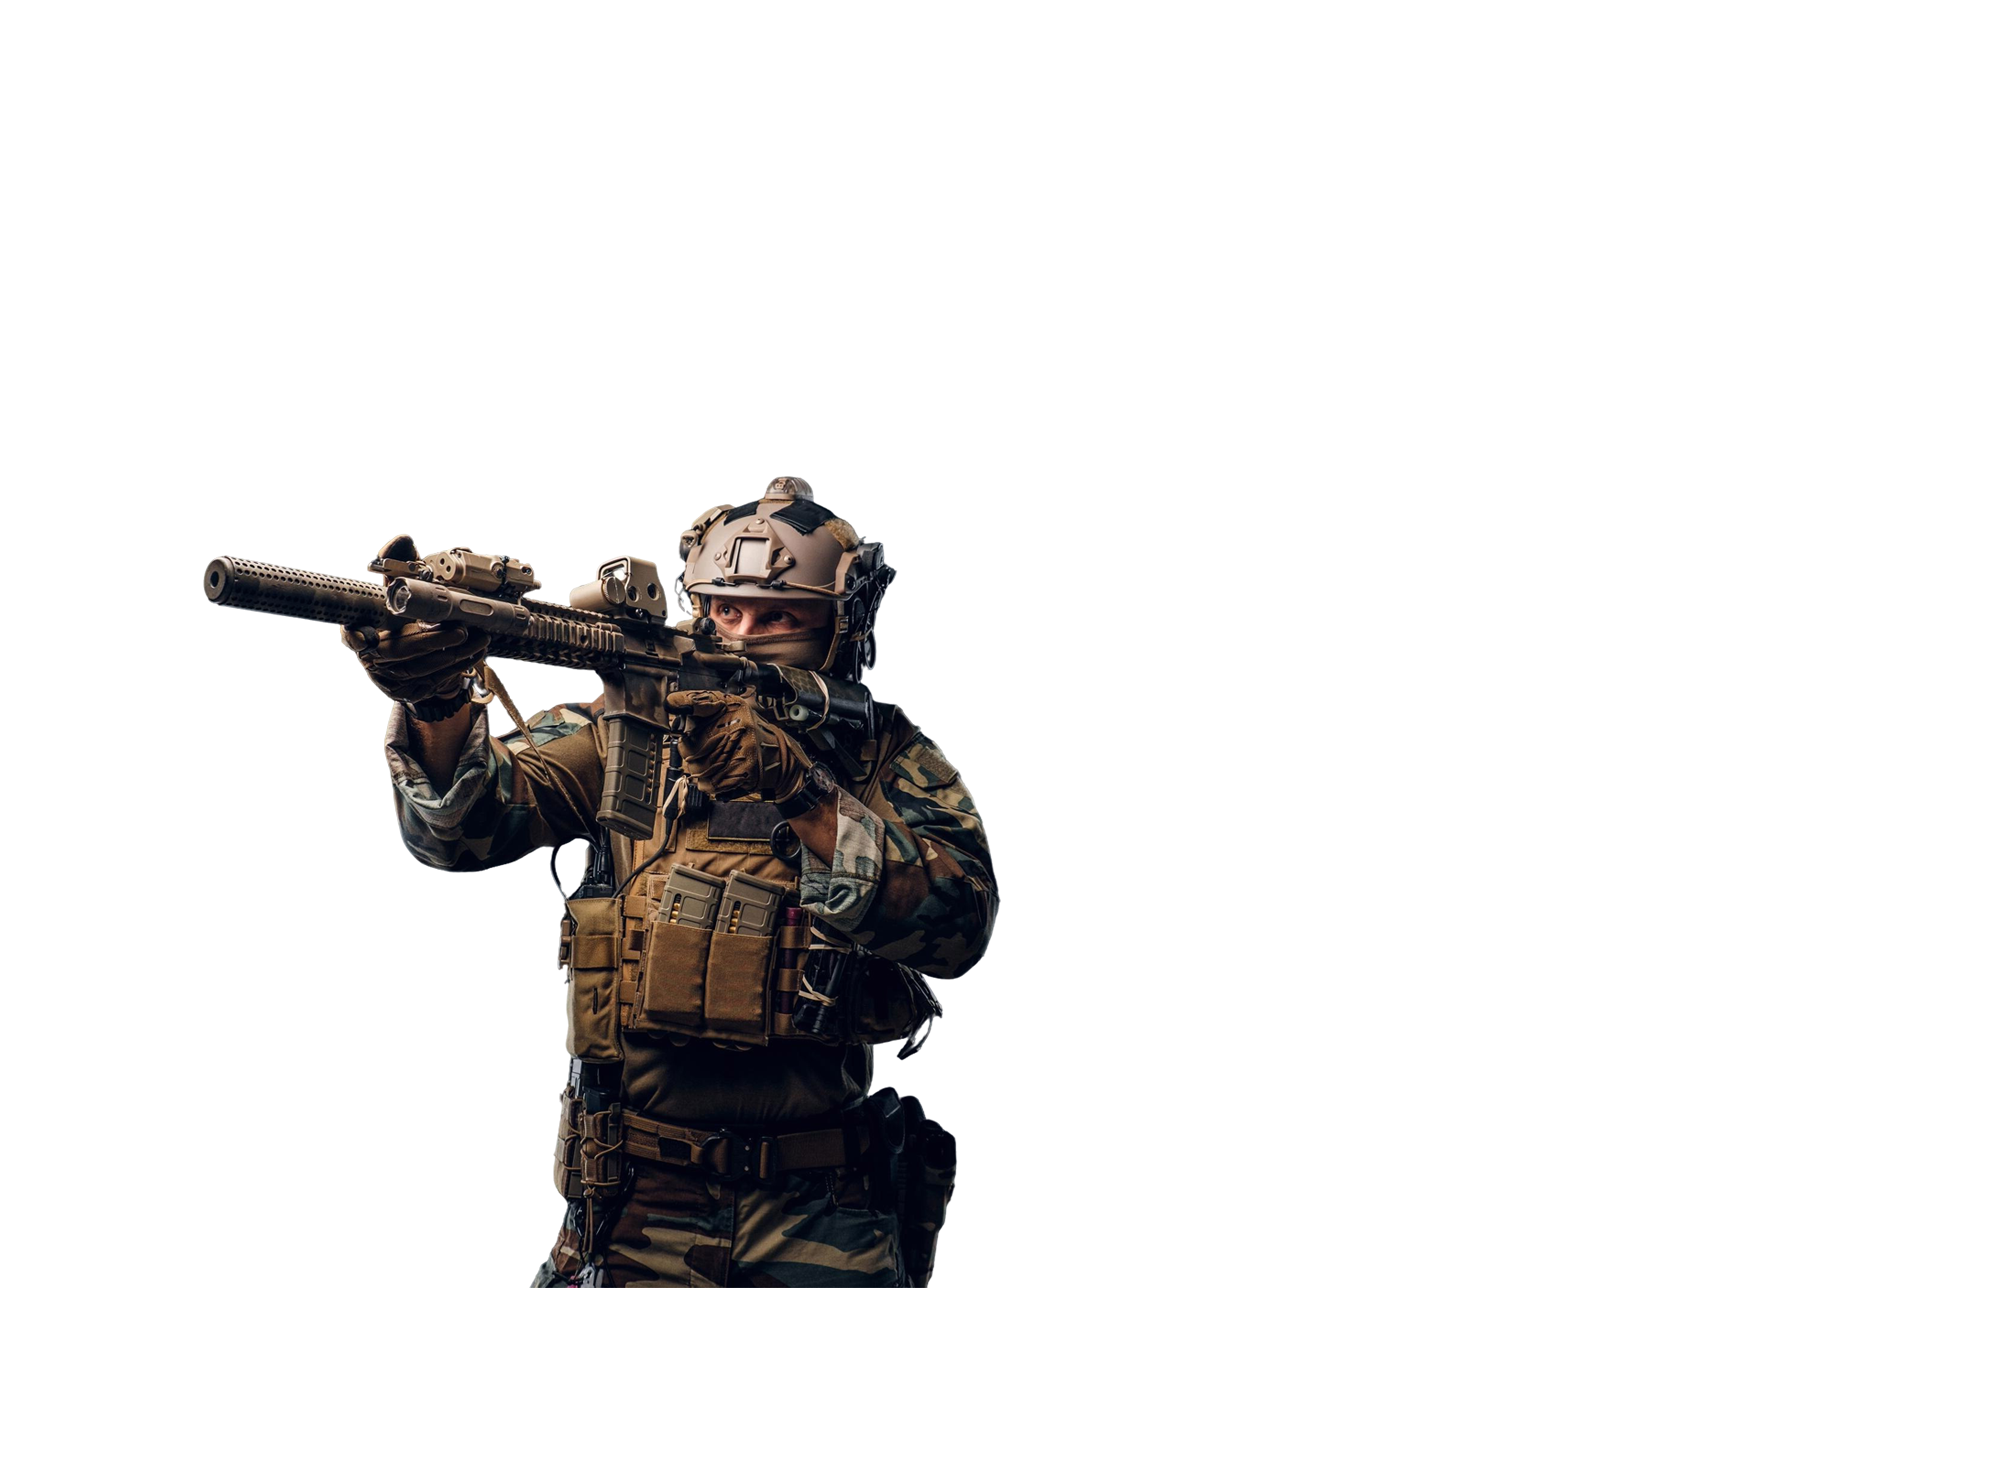
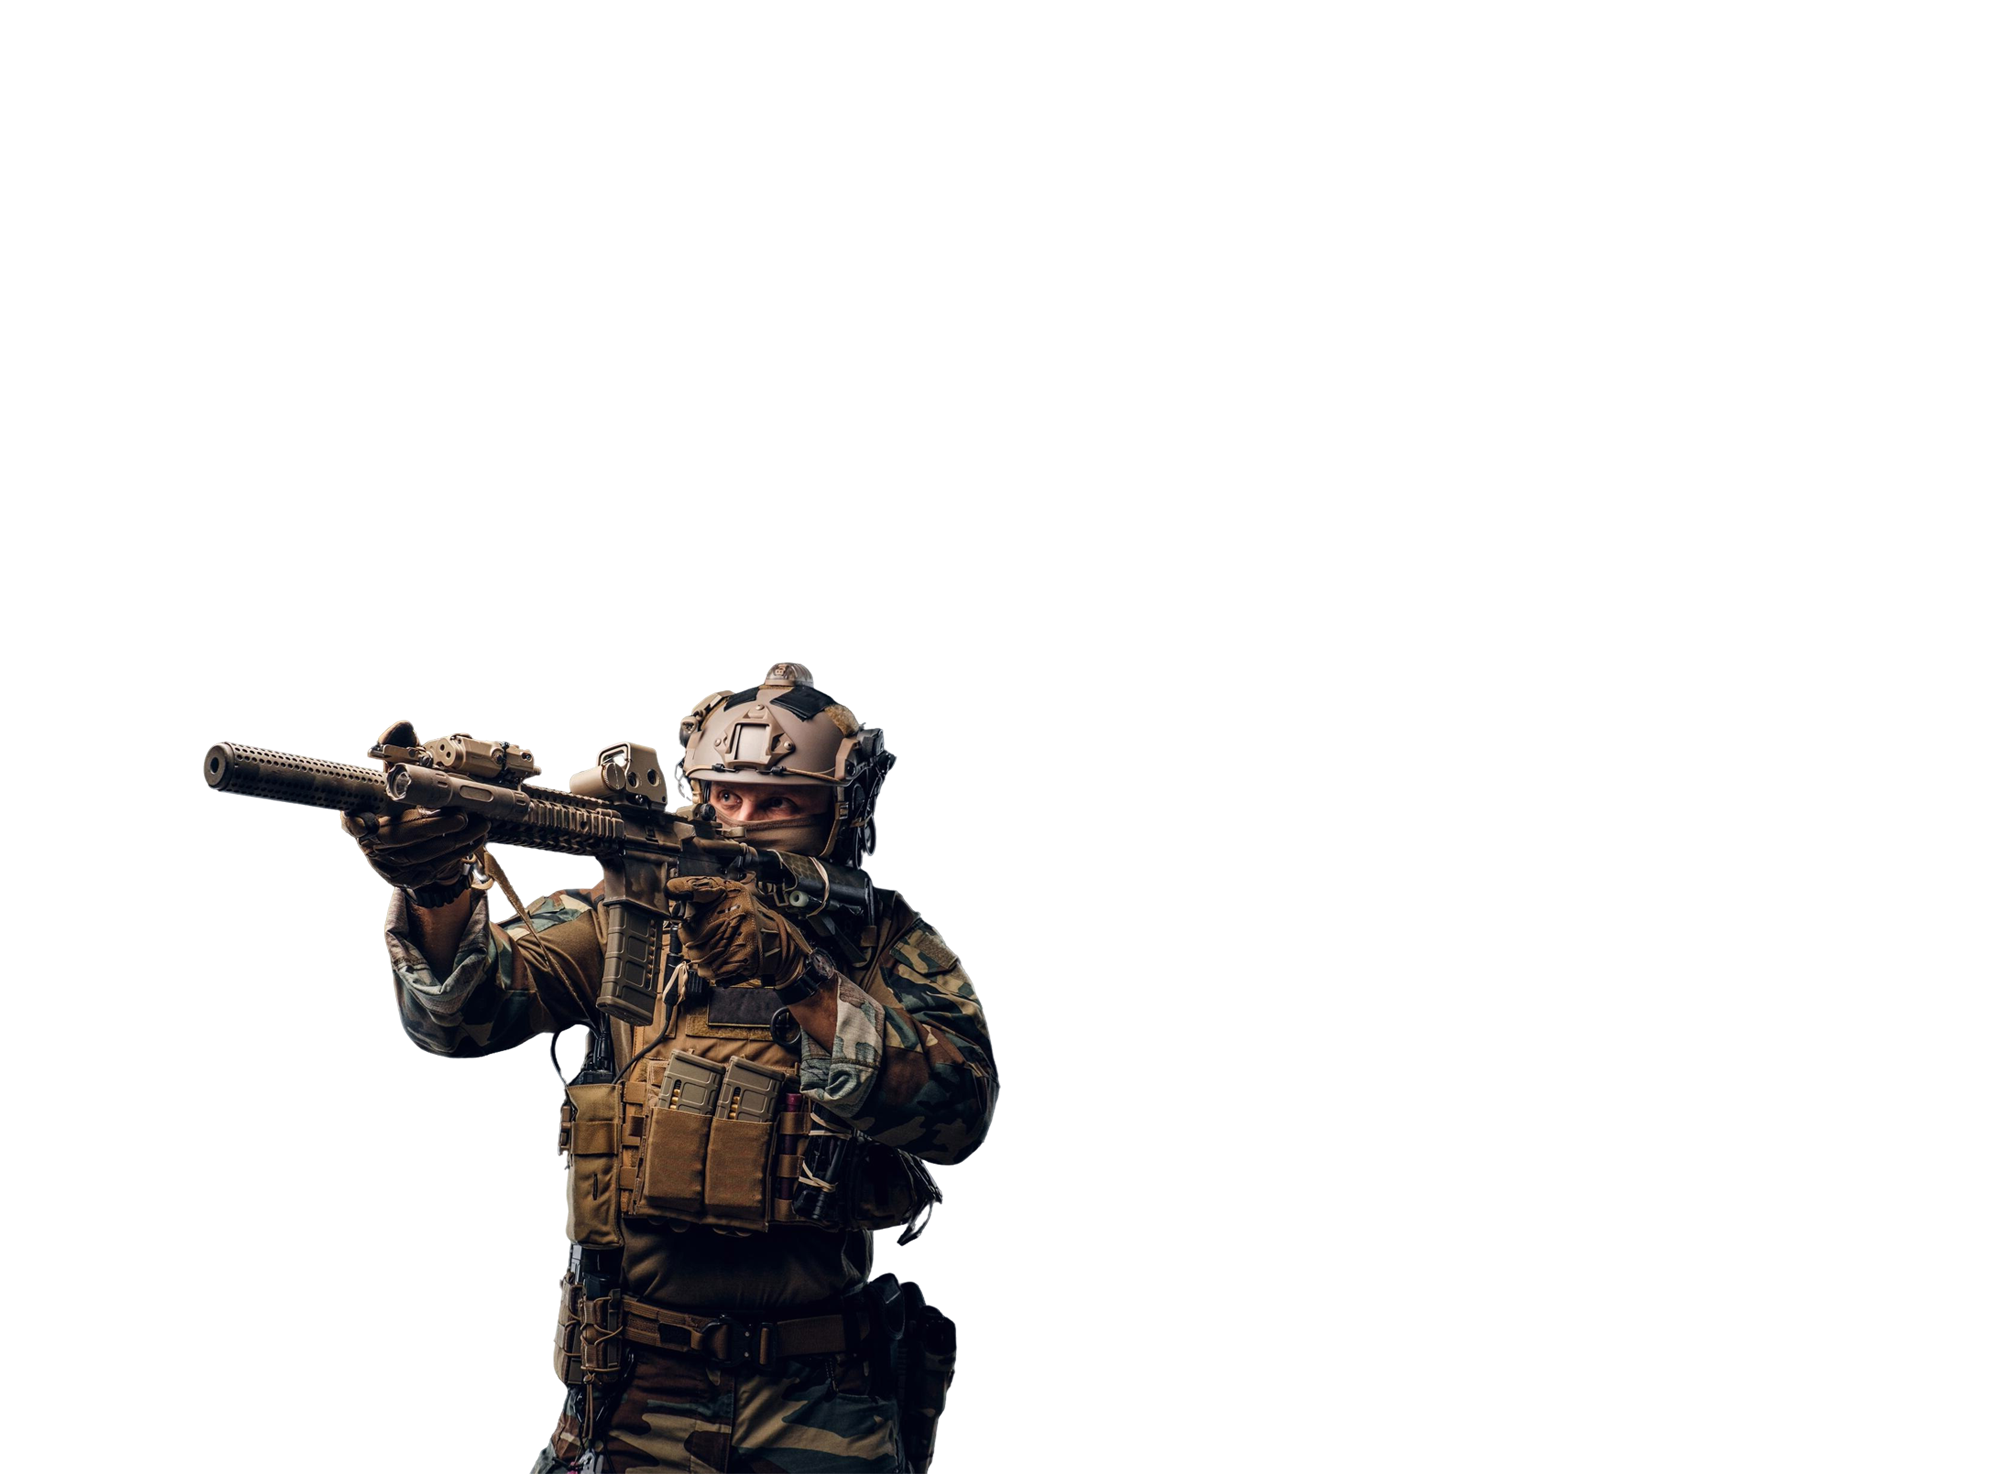
Add files via upload

Changed region(s): [[0.093, 0.3121, 0.527, 1.0]]

diff --git a/AboutUs.html b/AboutUs.html
@@ -15,8 +15,6 @@
 </head>
 <body>
 
-  <div class="pattern"></div>
-
   <header class="header-top">
     <div class="top-line">
 
@@ -29,7 +27,6 @@
   
 	  <div class="top-line__center">
 		<ion-icon size="small" name="call-outline"></ion-icon>
-		<!-- <a href="tel:+38(077)776-25-45" class="top-mnu-icon"><ion-icon size="large" name="call-outline"></ion-icon></a> -->
           <ul>
             <li><a href="tel:+38(077)776-25-45" class="top-mnu">380 777 762 545</a></li>
             <!-- <li><a href="tel:+38(077)754-57-62" class="top-mnu">380 777 545 762</a></li> -->
@@ -64,36 +61,19 @@
 
     </div>
   </header>
+  
+<div class="container">
+  <div class="box"><br><br>Ми — страйкбольний клуб, який об’єднує любителів активного відпочинку у Дніпрі. Наша основна мета — розвиток страйкбольної спільноти у місті та популяризація цього захоплюючого виду спорту серед молоді та дорослих.</div><br>
+  <div class="box">Для нас найважливішими є безпека та комфорт кожного гравця. Ми забезпечуємо сучасне спорядження, проводимо інструктажі та постійно слідкуємо за дотриманням правил гри. Кожен учасник може розраховувати на дружню атмосферу, підтримку та захоплюючі сценарії битв.</div><br>
+  <div class="box">Приєднуйтесь до нашого клубу, щоб отримати нові емоції, знайти друзів та долучитися до активного розвитку страйкболу у Дніпрі!</div><br>
+</div>
 
-	<section class="layers">
-		<div class="layers__container">
-			<div class="layers__item layer-1" style="background-image: url(img/layer-1.jpg);"></div>
-			<div class="layers__item layer-2" style="background-image: url(img/layer-2.png);"></div>
-			<div class="layers__item layer-6">
-				<div class="hero-content">
-					<button class="button-start" id="myButton">Welcome to the club</button>
-					<script>
-					  document.getElementById('myButton').onclick = function() {
-						window.location.href = 'https://forms.gle/YSXNUU3yCzW695LC8';
-					  };
-					</script>
-				</div>
-			</div>
-			<div class="layers__item layer-4">
-			</div>
-			<div class="layers__item layer-5" style="background-image: url(img/layer-5.png);"></div>
-		</div>
-		  
-	</section>
-	
-  </div>
-	<footer class="footer-line">
+<footer class="footer-line">
 		<a href="https://www.youtube.com/@SFC.Airsoft" target="_blank"><ion-icon size="large" name="logo-youtube"></ion-icon></a>
 		<a href="https://www.facebook.com/profile.php?id=61591764995091" target="_blank"><ion-icon size="large" name="logo-facebook"></ion-icon></a>
 		<a href="https://www.tiktok.com/@strikeforceclub" target="_blank"><ion-icon size="large" name="logo-tiktok"></ion-icon></a>
 		<a href="https://www.instagram.com/strikeforceclub" target="_blank"><ion-icon size="large" name="logo-instagram"></ion-icon></a>
 	</footer>
-
 <script  type = "module"  src = " https://unpkg.com/ionicons@7.1.0/dist/ionicons/ionicons.esm.js " > </script> 
 <script nomodule src = " https://unpkg.com/ionicons@7.1.0/dist/ionicons/ionicons.js " >   </script>
 </body>

diff --git a/repair.html b/repair.html
@@ -12,10 +12,19 @@
   <script src="vendor/lenis/lenis.min.js" defer></script>
 
   <script src="scripts/app.js" defer></script>
+  
+  <style>
+  body {
+    background-image: url('img/ЛогоДоктор.png');
+    background-size: 25%;
+    background-repeat: no-repeat;
+    background-position: bottom center;
+	background-attachment: fixed;
+  }
+</style>
+
 </head>
 <body>
-
-  <div class="pattern"></div>
 
   <header class="header-top">
     <div class="top-line">
@@ -28,8 +37,7 @@
       </div>
   
 	  <div class="top-line__center">
-		<ion-icon size="small" name="call-outline"></ion-icon>
-		<!-- <a href="tel:+38(077)776-25-45" class="top-mnu-icon"><ion-icon size="large" name="call-outline"></ion-icon></a> -->
+		<ion-icon size="medium" name="call-outline"></ion-icon>
           <ul>
             <li><a href="tel:+38(077)776-25-45" class="top-mnu">380 777 762 545</a></li>
             <!-- <li><a href="tel:+38(077)754-57-62" class="top-mnu">380 777 545 762</a></li> -->
@@ -64,36 +72,17 @@
 
     </div>
   </header>
+  
+<div class="container">
+  <div class="box2"><br><p style="text-align: center;">ПРОФЕСІЙНИЙ РЕМОНТ, ТЮНІНГ ПРИВОДІВ ТА ІНШОГО ОБЛАДНАННЯ.</p></div><br>
+</div>
 
-	<section class="layers">
-		<div class="layers__container">
-			<div class="layers__item layer-1" style="background-image: url(img/layer-1.jpg);"></div>
-			<div class="layers__item layer-2" style="background-image: url(img/layer-2.png);"></div>
-			<div class="layers__item layer-6">
-				<div class="hero-content">
-					<button class="button-start" id="myButton">Welcome to the club</button>
-					<script>
-					  document.getElementById('myButton').onclick = function() {
-						window.location.href = 'https://forms.gle/YSXNUU3yCzW695LC8';
-					  };
-					</script>
-				</div>
-			</div>
-			<div class="layers__item layer-4">
-			</div>
-			<div class="layers__item layer-5" style="background-image: url(img/layer-5.png);"></div>
-		</div>
-		  
-	</section>
-	
-  </div>
-	<footer class="footer-line">
+<footer class="footer-line">
 		<a href="https://www.youtube.com/@SFC.Airsoft" target="_blank"><ion-icon size="large" name="logo-youtube"></ion-icon></a>
 		<a href="https://www.facebook.com/profile.php?id=61591764995091" target="_blank"><ion-icon size="large" name="logo-facebook"></ion-icon></a>
 		<a href="https://www.tiktok.com/@strikeforceclub" target="_blank"><ion-icon size="large" name="logo-tiktok"></ion-icon></a>
 		<a href="https://www.instagram.com/strikeforceclub" target="_blank"><ion-icon size="large" name="logo-instagram"></ion-icon></a>
 	</footer>
-
 <script  type = "module"  src = " https://unpkg.com/ionicons@7.1.0/dist/ionicons/ionicons.esm.js " > </script> 
 <script nomodule src = " https://unpkg.com/ionicons@7.1.0/dist/ionicons/ionicons.js " >   </script>
 </body>

diff --git a/styles/main.css b/styles/main.css
@@ -338,28 +338,21 @@ ul {
   visibility: visible;
 }
 
-@media (max-width: 991.98px) {
-  .top-line__center {
-    display: none;
-  }
-  .top-line {
-    justify-content: space-between;
-  }
-
-  .main-menu {
-    width: 97%;
-  }
+.container {
+  /* display: flex; /* Делает контейнер гибким */ */
+  gap: 10px;    /* Отступ между блоками */
 }
-
-@media (max-width: 767.98px) {
-
+.box {
+	font-size: 20px;
+ /*  width: 100px;
+  height: 100px; */
+  /* background: #ccc; */
 }
-
-@media (max-width: 575.98px) {
-  .section-head {
-    flex-direction: column;
-  }
-
+.box2 {
+	font-size: 30px;
+ /*  width: 100px;
+  height: 100px; */
+  /* background: #ccc; */
 }
 
 .layers {
@@ -449,4 +442,56 @@ ul {
 }
 .layer-4, .layer-5{
 	pointer-events: none;
+}
+
+@media (max-width: 991.98px) {
+		.button-start {
+
+		margin-top: calc(var(--index) * 30);
+	}
+	
+  .top-line__center {
+    display: none;
+  }
+  .top-line {
+    justify-content: space-between;
+  }
+
+  .main-menu {
+    width: 97%;
+  }
+}
+
+@media (max-width: 767.98px) {
+	.button-start {
+
+		margin-top: calc(var(--index) * 30);
+	}
+		
+  .section-head {
+    flex-direction: column;
+	}
+}
+
+@media (max-width: 575.98px) {
+  .section-head {
+    flex-direction: column;
+  }
+  
+  .button-start {
+
+		margin-top: calc(var(--index) * 25);
+
+}
+
+@media (max-width: 344px) {
+	  .section-head {
+    flex-direction: column;
+  }
+  
+	.button-start {
+
+		margin-top: calc(var(--index) * 30);
+	}
+
 }
